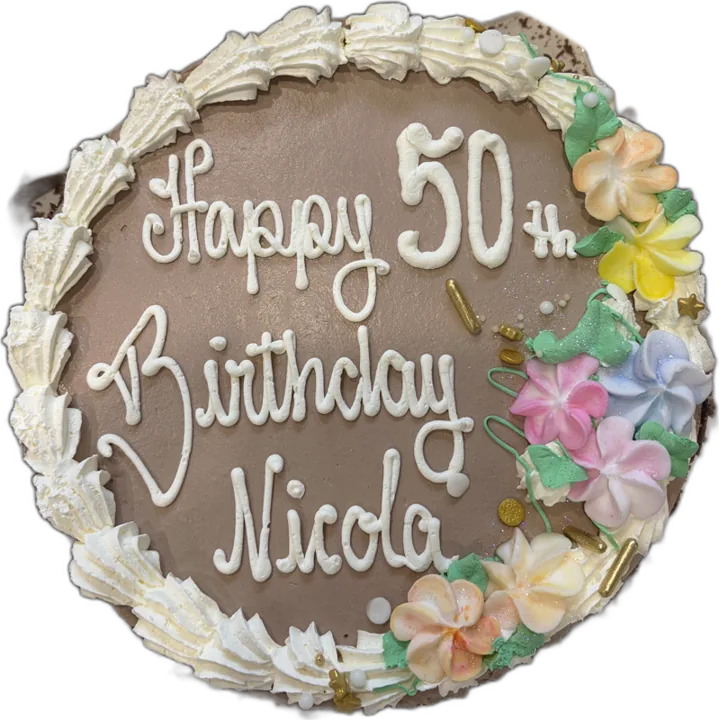
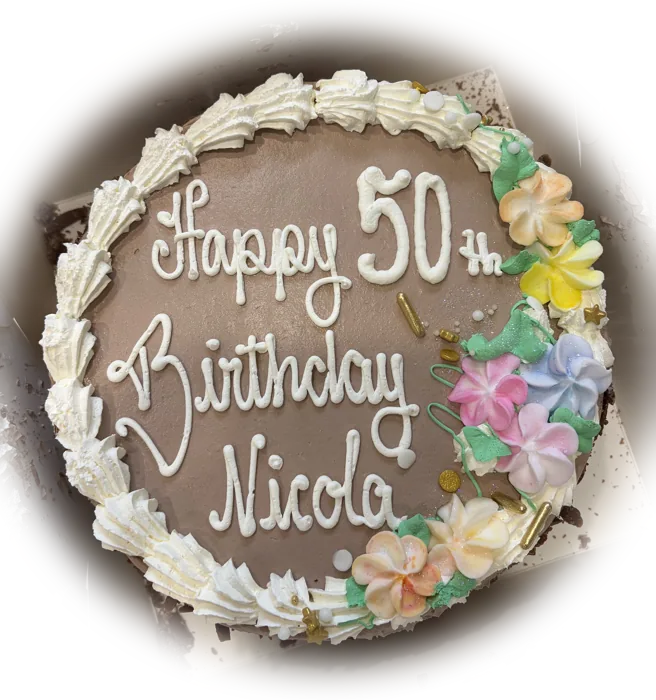
Intro cake: wider cut-out with chocolate edge, shown for at least 4 s
Claude-Session: https://claude.ai/code/session_01NvMQkY5zn2ftpPazj1JT5H

diff --git a/index.html b/index.html
@@ -222,7 +222,7 @@ section { padding-block: 56px 8px; }
 .welcome small { margin-top: 16px; padding-left: .2em; font: 700 .78rem/1 var(--f-body); letter-spacing: .2em; text-transform: uppercase; color: var(--ink); }
 .welcome.playing > div:first-child { transition: opacity .4s, transform .4s; opacity: 0; transform: scale(.9); pointer-events: none; }
 .intro-cake { position: absolute; inset: 0; display: grid; place-items: center; align-content: center; gap: 18px; z-index: 5; pointer-events: none; }
-.intro-cake img { width: min(78vw, 56vh, 460px); height: auto; filter: drop-shadow(0 18px 30px rgba(0,0,0,.18)); animation: cakein .9s cubic-bezier(.2,.8,.2,1.2) both, cakepulse 2.4s ease-in-out .9s infinite; }
+.intro-cake img { width: min(78vw, 56vh, 460px); height: auto; animation: cakein .9s cubic-bezier(.2,.8,.2,1.2) both, cakepulse 2.4s ease-in-out .9s infinite; }
 .intro-cake span { font: 700 .78rem/1 var(--f-body); letter-spacing: .2em; text-transform: uppercase; color: var(--ink); opacity: .7; }
 @keyframes cakein { from { opacity: 0; transform: scale(.4) rotate(-12deg); } to { opacity: 1; transform: none; } }
 @keyframes cakepulse { 50% { transform: scale(1.04); } }
@@ -796,7 +796,7 @@ document.getElementById("welcome-start").onclick = () => {
       playIntro(() => { welcome.hidden = true; document.documentElement.style.overflow = ""; scrollTo(0, 0); wakeMedia(); }); setTimeout(wakeMedia, 45000); };
     let started = false; const once = () => { if (!started) { started = true; start(); } };
     serenade.addEventListener("playing", once, { once: true }); serenade.play().catch(once); setTimeout(once, 4000);
-  }, Math.max(0, 2200 - (Date.now() - t0))));
+  }, Math.max(0, 4000 - (Date.now() - t0))));
 };
 document.getElementById("np-stop").onclick = () => { serenade.pause(); np.hidden = true; };
 serenade.onended = () => { np.hidden = true; };
